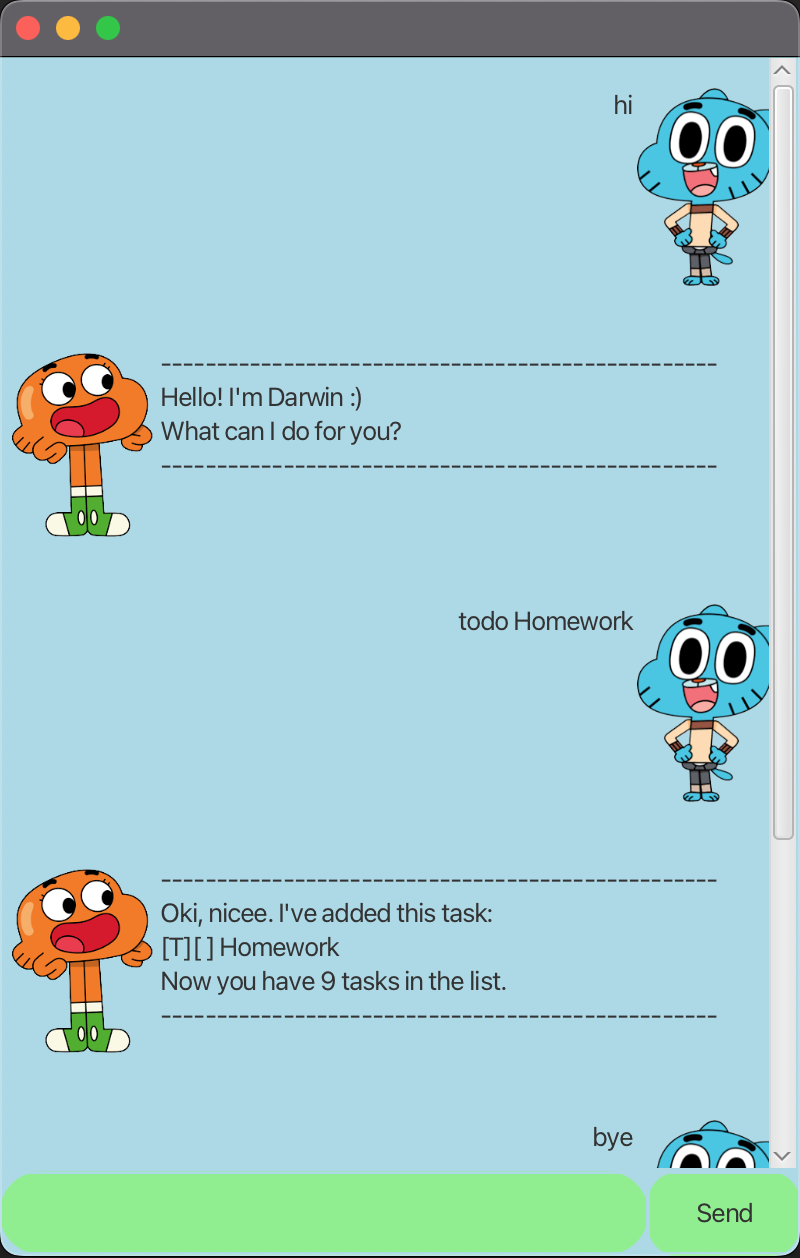
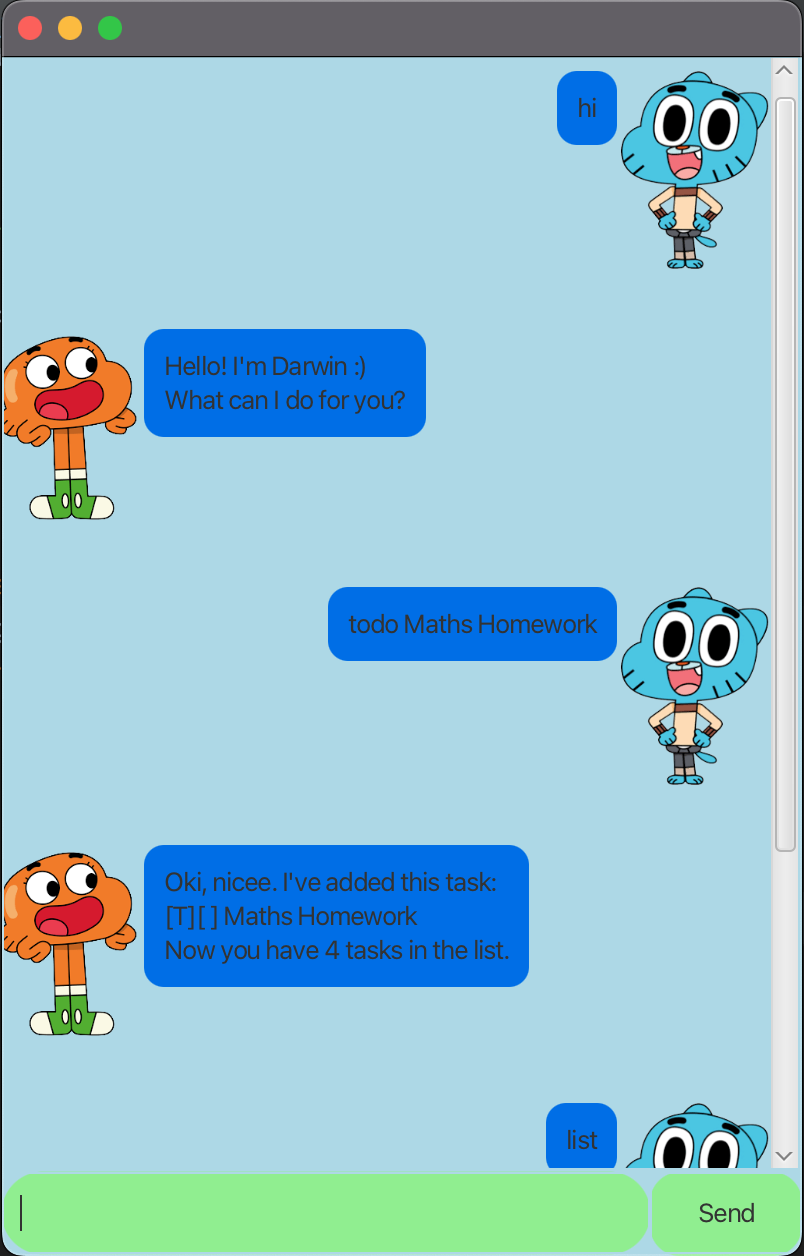
Final Updates to iP

diff --git a/src/main/java/duke/Parser.java b/src/main/java/duke/Parser.java
@@ -19,9 +19,7 @@ public class Parser {
      * @param echoCommand Command to be echoed
      */
     public static String echo(String echoCommand) {
-        String echoMessage = "--------------------------------------------------\n"
-                + echoCommand
-                + "\n--------------------------------------------------\n";
+        String echoMessage = echoCommand;
         return echoMessage;
     }
 
